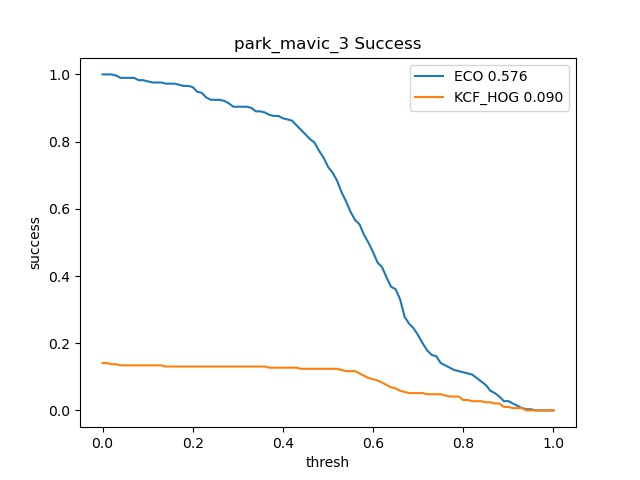
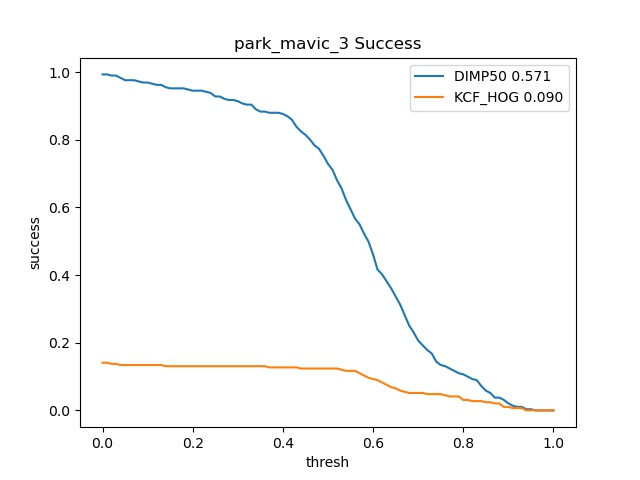
PrDiMP, KYS and ToMP trackers added without imu

diff --git a/examples/compare_different_cf_tracker.py b/examples/compare_different_cf_tracker.py
@@ -48,7 +48,10 @@ if __name__ == '__main__':
         # tracker_csk=PyTracker(img_dir,tracker_type='CSK',dataset_config=dataset_config)
         # tracker_kcf_cn=PyTracker(img_dir,tracker_type='KCF_CN',dataset_config=dataset_config)
         # tracker_eco=PyTracker(img_dir,tracker_type='ECO',dataset_config=dataset_config)
-        tracker_dimp50=PyTracker(img_dir,tracker_type='DIMP50',dataset_config=dataset_config)
+        # tracker_prdimp50=PyTracker(img_dir,tracker_type='PRDIMP50',dataset_config=dataset_config)
+        # tracker_kys=PyTracker(img_dir,tracker_type='KYS',dataset_config=dataset_config)
+        tracker_tomp=PyTracker(img_dir,tracker_type='TOMP',dataset_config=dataset_config)
+        # tracker_dimp50=PyTracker(img_dir,tracker_type='DIMP50',dataset_config=dataset_config)
         # tracker_eco_hc=PyTracker(img_dir,tracker_type='ECO-HC',dataset_config=dataset_config)
         # tracker_cn=PyTracker(img_dir,tracker_type='CN',dataset_config=dataset_config)
 
@@ -58,11 +61,29 @@ if __name__ == '__main__':
         #     viot_results[data_name]['kcf_gray_preds'].append(list(kcf_gray_pred.astype(np.int)))
         # print('kcf gray done!')
 
-        dimp50_preds=tracker_dimp50.tracking()
-        viot_results[data_name]['tracker_dimp50_preds'] = []
-        for dimp50_pred in dimp50_preds:
-            viot_results[data_name]['tracker_dimp50_preds'].append(list(dimp50_pred.astype(np.int)))
-        print('dimp50 done!')
+        # dimp50_preds=tracker_dimp50.tracking()
+        # viot_results[data_name]['tracker_dimp50_preds'] = []
+        # for dimp50_pred in dimp50_preds:
+        #     viot_results[data_name]['tracker_dimp50_preds'].append(list(dimp50_pred.astype(np.int)))
+        # print('dimp50 done!')
+
+        # kys_preds=tracker_kys.tracking()
+        # viot_results[data_name]['tracker_kys_preds'] = []
+        # for kys_pred in kys_preds:
+        #     viot_results[data_name]['tracker_kys_preds'].append(list(kys_pred.astype(np.int)))
+        # print('kys done!')
+
+        tomp_preds=tracker_tomp.tracking()
+        viot_results[data_name]['tracker_tomp_preds'] = []
+        for tomp_pred in tomp_preds:
+            viot_results[data_name]['tracker_tomp_preds'].append(list(tomp_pred.astype(np.int)))
+        print('tomp done!')
+
+        # prdimp50_preds=tracker_prdimp50.tracking()
+        # viot_results[data_name]['tracker_prdimp50_preds'] = []
+        # for prdimp50_pred in prdimp50_preds:
+        #     viot_results[data_name]['tracker_prdimp50_preds'].append(list(prdimp50_pred.astype(np.int)))
+        # print('prdimp50 done!')
 
         kcf_hog_preds=tracker_kcf_hog.tracking()
         viot_results[data_name]['kcf_hog_preds'] = []
@@ -141,7 +162,10 @@ if __name__ == '__main__':
         # _,precisions_csk=get_thresh_precision_pair(gts,csk_preds)
         # _,precisions_kcf_cn=get_thresh_precision_pair(gts,kcf_cn_preds)
         # _,precisions_eco=get_thresh_precision_pair(gts,eco_preds)
-        _,precisions_dimp50=get_thresh_precision_pair(gts,dimp50_preds)
+        # _,precisions_dimp50=get_thresh_precision_pair(gts,dimp50_preds)
+        # _,precisions_prdimp50=get_thresh_precision_pair(gts,prdimp50_preds)
+        # _,precisions_kys=get_thresh_precision_pair(gts,kys_preds)
+        _,precisions_tomp=get_thresh_precision_pair(gts,tomp_preds)
         # _,precisions_eco_hc=get_thresh_precision_pair(gts,eco_hc_preds)
         # _,precisions_cn=get_thresh_precision_pair(gts,cn_preds)
         idx20=[i for i, x in enumerate(threshes) if x==20][0]
@@ -156,7 +180,10 @@ if __name__ == '__main__':
         # plt.plot(threshes,precisions_csk,label='CSK '+str(precisions_csk[idx20])[:5])
         # plt.plot(threshes,precisions_kcf_cn,label='KCF_CN '+str(precisions_kcf_cn[idx20])[:5])
         # plt.plot(threshes,precisions_eco,label='ECO '+str(precisions_eco[idx20])[:5])
-        plt.plot(threshes,precisions_dimp50,label='DIMP50 '+str(precisions_dimp50[idx20])[:5])
+        # plt.plot(threshes,precisions_dimp50,label='DIMP50 '+str(precisions_dimp50[idx20])[:5])
+        # plt.plot(threshes,precisions_prdimp50,label='PRDIMP50 '+str(precisions_prdimp50[idx20])[:5])
+        # plt.plot(threshes,precisions_kys,label='KYS '+str(precisions_kys[idx20])[:5])
+        plt.plot(threshes,precisions_tomp,label='TOMP '+str(precisions_tomp[idx20])[:5])
         # plt.plot(threshes,precisions_eco_hc,label='ECO-HC '+str(precisions_eco_hc[idx20])[:5])
         # plt.plot(threshes,precisions_cn,label='CN '+str(precisions_cn[idx20])[:5])
         plt.title(data_name+' Precision')
@@ -178,12 +205,18 @@ if __name__ == '__main__':
         # _,successes_csk=get_thresh_success_pair(gts,csk_preds)
         # _,successes_kcf_cn=get_thresh_success_pair(gts,kcf_cn_preds)
         # _,successes_eco=get_thresh_success_pair(gts,eco_preds)
-        _,successes_dimp50=get_thresh_success_pair(gts,dimp50_preds)
+        # _,successes_dimp50=get_thresh_success_pair(gts,dimp50_preds)
+        # _,successes_prdimp50=get_thresh_success_pair(gts,prdimp50_preds)
+        # _,successes_kys=get_thresh_success_pair(gts,kys_preds)
+        _,successes_tomp=get_thresh_success_pair(gts,tomp_preds)
         # _,successes_eco_hc=get_thresh_success_pair(gts,eco_hc_preds)
         # _,successes_cn=get_thresh_success_pair(gts,cn_preds)
         # plt.plot(threshes,successes_kcf_cn,label='KCF_CN '+str(calAUC(successes_kcf_cn))[:5])
         # plt.plot(threshes,successes_eco,label='ECO '+str(calAUC(successes_eco))[:5])
-        plt.plot(threshes,successes_dimp50,label='DIMP50 '+str(calAUC(successes_dimp50))[:5])
+        # plt.plot(threshes,successes_dimp50,label='DIMP50 '+str(calAUC(successes_dimp50))[:5])
+        # plt.plot(threshes,successes_prdimp50,label='PRDIMP50 '+str(calAUC(successes_prdimp50))[:5])
+        # plt.plot(threshes,successes_kys,label='KYS '+str(calAUC(successes_kys))[:5])
+        plt.plot(threshes,successes_tomp,label='TOMP '+str(calAUC(successes_tomp))[:5])
         # plt.plot(threshes,successes_kcf_gray, label='KCF_GRAY '+str(calAUC(successes_kcf_gray))[:5])
         plt.plot(threshes,successes_kcf_hog,label='KCF_HOG '+str(calAUC(successes_kcf_hog))[:5])
         # plt.plot(threshes,successes_bacf,label='BACF '+str(calAUC(successes_bacf))[:5])

diff --git a/examples/viotdataset_config.py b/examples/viotdataset_config.py
@@ -20,23 +20,27 @@ class VIOTDatasetConfig:
     }
 
     frames={
-        "cup_0.5HZ":[1,220],
-        "cup_0.9HZ":[1,760],
-        "cup_1.1HZ":[1,329],
-        "cup_1.5HZ":[1,312],
-        "cup_1.8HZ":[1,357],
-        "cup_2.1HZ":[1,465],
-        "cup_3.2HZ":[1,254],
-        "park_mavic_1":[880,1005],
-        "park_mavic_2":[45,480],
+        # "cup_0.5HZ":[1,220],
+        # "cup_0.9HZ":[1,760],
+        # "cup_1.1HZ":[1,329],
+        # "cup_1.5HZ":[1,312],
+        # "cup_1.8HZ":[1,357],
+        # "cup_2.1HZ":[1,465],
+        # "cup_3.2HZ":[1,254],
+        # "park_mavic_1":[880,1005],
+        # "park_mavic_2":[45,480],
         # "park_mavic_2":[480,720],
         # "park_mavic_3":[1,370],
-        "park_mavic_3":[370,660],
-        # "park_mavic_3":[660,2022],
-        "park_mavic_4":[1,310],
-        "park_mavic_5":[835,1200],
-        "park_mavic_6":[145,600],
-        "park_mavic_7":[1,400],
+        # "park_mavic_3":[370,660],
+        # "park_mavic_3":[1,2022],
+        # "park_mavic_4":[1,310],
+        # "park_mavic_4":[1,1906],
+        # "park_mavic_5":[835,1200],
+        # "park_mavic_5":[1,1697],
+        # "park_mavic_6":[145,600],
+        # "park_mavic_6":[1,1137],
+        # "park_mavic_7":[1,400],
+        "park_mavic_7":[1,915],
         "soccerfield_mavic_3":[660,1104],
         "soccerfield_mavic_4":[350,1297]
     }
@@ -67,6 +71,24 @@ class VIOTDatasetConfig:
                "park_mavic_6":[0.5, 0.3], "park_mavic_7":[0.5, 0.3], "soccerfield_mavic_3":[0.5, 0.3], \
                "soccerfield_mavic_4":[0.5, 0.3]},
         "DIMP50":{"cup_0.5HZ":[0.5, 1], "cup_0.9HZ":[0.5, 1], "cup_1.1HZ":[0.5, 1], \
+                  "cup_1.5HZ":[0.5, 1], "cup_1.8HZ":[0.5, 1], "cup_2.1HZ":[0.5, 1], \
+                  "cup_3.2HZ":[0.5, 1], "park_mavic_1":[0.5, 0.3], "park_mavic_2":[0.5, 0.3], \
+                  "park_mavic_3":[0.5, 0.3], "park_mavic_4":[0.5, 0.3], "park_mavic_5":[0.5, 0.3], \
+                  "park_mavic_6":[0.5, 0.3], "park_mavic_7":[0.5, 0.3], "soccerfield_mavic_3":[0.5, 0.3], \
+                  "soccerfield_mavic_4":[0.5, 0.3]},
+        "PRDIMP50":{"cup_0.5HZ":[0.5, 1], "cup_0.9HZ":[0.5, 1], "cup_1.1HZ":[0.5, 1], \
+                  "cup_1.5HZ":[0.5, 1], "cup_1.8HZ":[0.5, 1], "cup_2.1HZ":[0.5, 1], \
+                  "cup_3.2HZ":[0.5, 1], "park_mavic_1":[0.5, 0.3], "park_mavic_2":[0.5, 0.3], \
+                  "park_mavic_3":[0.5, 0.3], "park_mavic_4":[0.5, 0.3], "park_mavic_5":[0.5, 0.3], \
+                  "park_mavic_6":[0.5, 0.3], "park_mavic_7":[0.5, 0.3], "soccerfield_mavic_3":[0.5, 0.3], \
+                  "soccerfield_mavic_4":[0.5, 0.3]},
+        "KYS":{"cup_0.5HZ":[0.5, 1], "cup_0.9HZ":[0.5, 1], "cup_1.1HZ":[0.5, 1], \
+                  "cup_1.5HZ":[0.5, 1], "cup_1.8HZ":[0.5, 1], "cup_2.1HZ":[0.5, 1], \
+                  "cup_3.2HZ":[0.5, 1], "park_mavic_1":[0.5, 0.3], "park_mavic_2":[0.5, 0.3], \
+                  "park_mavic_3":[0.5, 0.3], "park_mavic_4":[0.5, 0.3], "park_mavic_5":[0.5, 0.3], \
+                  "park_mavic_6":[0.5, 0.3], "park_mavic_7":[0.5, 0.3], "soccerfield_mavic_3":[0.5, 0.3], \
+                  "soccerfield_mavic_4":[0.5, 0.3]},
+        "TOMP":{"cup_0.5HZ":[0.5, 1], "cup_0.9HZ":[0.5, 1], "cup_1.1HZ":[0.5, 1], \
                   "cup_1.5HZ":[0.5, 1], "cup_1.8HZ":[0.5, 1], "cup_2.1HZ":[0.5, 1], \
                   "cup_3.2HZ":[0.5, 1], "park_mavic_1":[0.5, 0.3], "park_mavic_2":[0.5, 0.3], \
                   "park_mavic_3":[0.5, 0.3], "park_mavic_4":[0.5, 0.3], "park_mavic_5":[0.5, 0.3], \

diff --git a/examples/pytracker.py b/examples/pytracker.py
@@ -182,6 +182,45 @@ class PyTracker:
             except:
                 self.interp_factor=0.3
 
+        elif self.tracker_type=='PRDIMP50':
+            self.tracker=self.getETHTracker('dimp','prdimp50')
+            self.ethTracker=True
+            try:
+                self.ratio_thresh=dataset_config.params['PRDIMP50'][dataname][0]
+            except:
+                self.ratio_thresh=0.5
+
+            try:
+                self.interp_factor=dataset_config.params['PRDIMP50'][dataname][1]
+            except:
+                self.interp_factor=0.3
+
+        elif self.tracker_type=='KYS':
+            self.tracker=self.getETHTracker('kys','default')
+            self.ethTracker=True
+            try:
+                self.ratio_thresh=dataset_config.params['KYS'][dataname][0]
+            except:
+                self.ratio_thresh=0.5
+
+            try:
+                self.interp_factor=dataset_config.params['KYS'][dataname][1]
+            except:
+                self.interp_factor=0.3
+
+        elif self.tracker_type=='TOMP':
+            self.tracker=self.getETHTracker('tomp','tomp101')
+            self.ethTracker=True
+            try:
+                self.ratio_thresh=dataset_config.params['TOMP'][dataname][0]
+            except:
+                self.ratio_thresh=0.5
+
+            try:
+                self.interp_factor=dataset_config.params['TOMP'][dataname][1]
+            except:
+                self.interp_factor=0.3
+
         else:
             raise NotImplementedError
 

diff --git a/pytracking/tracker/kys/kys.py b/pytracking/tracker/kys/kys.py
@@ -204,6 +204,15 @@ class KYS(BaseTracker):
         elif self.params.get('reset_state_during_occlusion', False):
             self.prev_state_handler.reset_state()
 
+        self.score = scores_dimp[0].cpu().detach().numpy()
+        self.score = self.score[0]
+
+        sfactor = (self.img_support_sz / self.output_sz) * sample_scales[0]
+        sfactor = sfactor.cpu().detach().numpy()
+        
+        self.crop_size = self.score.shape*sfactor
+        self.crop_size = (int(self.crop_size[0]), int(self.crop_size[1]))
+
         if self.visdom is not None:
             self.visdom.register(scores_dimp[0], 'heatmap', 2, 'Dimp')
             self.visdom.register(self.debug_info, 'info_dict', 1, 'Status')

diff --git a/pytracking/tracker/tomp/tomp.py b/pytracking/tracker/tomp/tomp.py
@@ -197,6 +197,15 @@ class ToMP(BaseTracker):
 
         score_map = s[scale_ind, ...]
 
+        self.score = score_map.cpu().detach().numpy()
+
+        score_sz = torch.Tensor(list(scores_raw.shape[-2:]))
+        output_sz = score_sz - (self.kernel_size + 1) % 2
+        sfactor = (self.img_support_sz / output_sz) * sample_scales[scale_ind]
+        sfactor = sfactor.cpu().detach().numpy()
+        self.crop_size = self.score.shape*sfactor
+        self.crop_size = (int(self.crop_size[0]), int(self.crop_size[1]))
+
         # Compute output bounding box
         new_state = torch.cat((self.pos[[1, 0]] - (self.target_sz[[1, 0]] - 1) / 2, self.target_sz[[1, 0]]))
 
